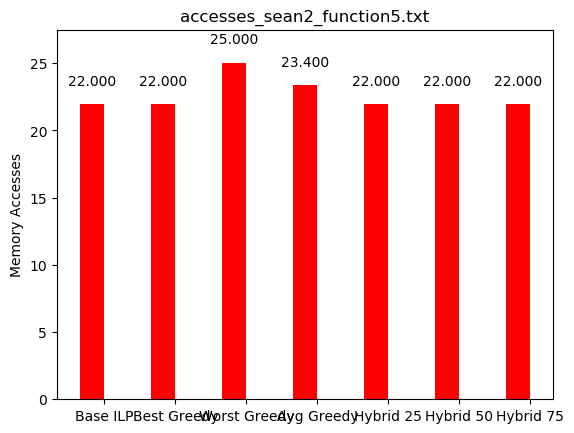
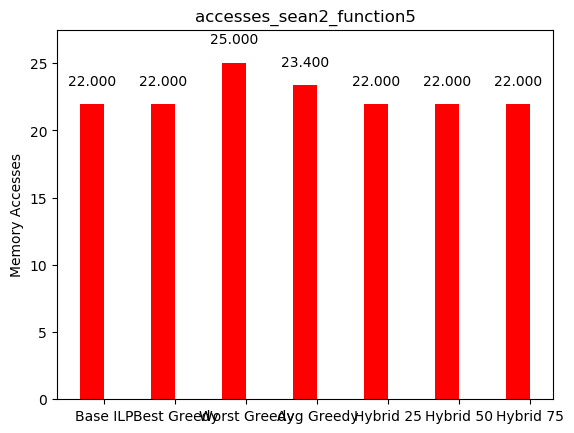
better plots

Changed region(s): [[0.2962, 0.03, 0.7404, 0.06]]

diff --git a/graph_collect.py b/graph_collect.py
@@ -43,10 +43,11 @@ for f in accessNames:
     data = [raw_ilp, best, worst, avg, hybrid_25, hybrid_50, hybrid_75]
     rects1 = ax.bar(ind, data, width, color='r')
     ax.set_ylabel("Memory Accesses")
-    ax.set_title(f)
+    ax.set_title(f[:-4])
     ax.set_xticks(ind + width/2)
     ax.set_xticklabels(('Base ILP', 'Best Greedy', 'Worst Greedy', 'Avg Greedy', 'Hybrid 25', 'Hybrid 50', 'Hybrid 75'))
     plt.ylim((0, hybrid_75*1.25))
+    #plt.ylim((0, worst*1.25))
     def autolabel(rects):
         for rect in rects:
             height = rect.get_height()
@@ -77,7 +78,7 @@ for f in hybridNames:
     data = [greedy, raw_ilp, hybrid_25, hybrid_50, hybrid_75]
     rects1 = ax.bar(ind, data, width, color='r')
     ax.set_ylabel("Runtime (Hybrid)")
-    ax.set_title(f)
+    ax.set_title(f[:-4])
     ax.set_xticks(ind + width/2)
     ax.set_xticklabels(('Greedy', 'Base ILP', 'Hybrid 25', 'Hybrid 50', 'Hybrid 75'))
     plt.ylim((0, raw_ilp*1.25))
